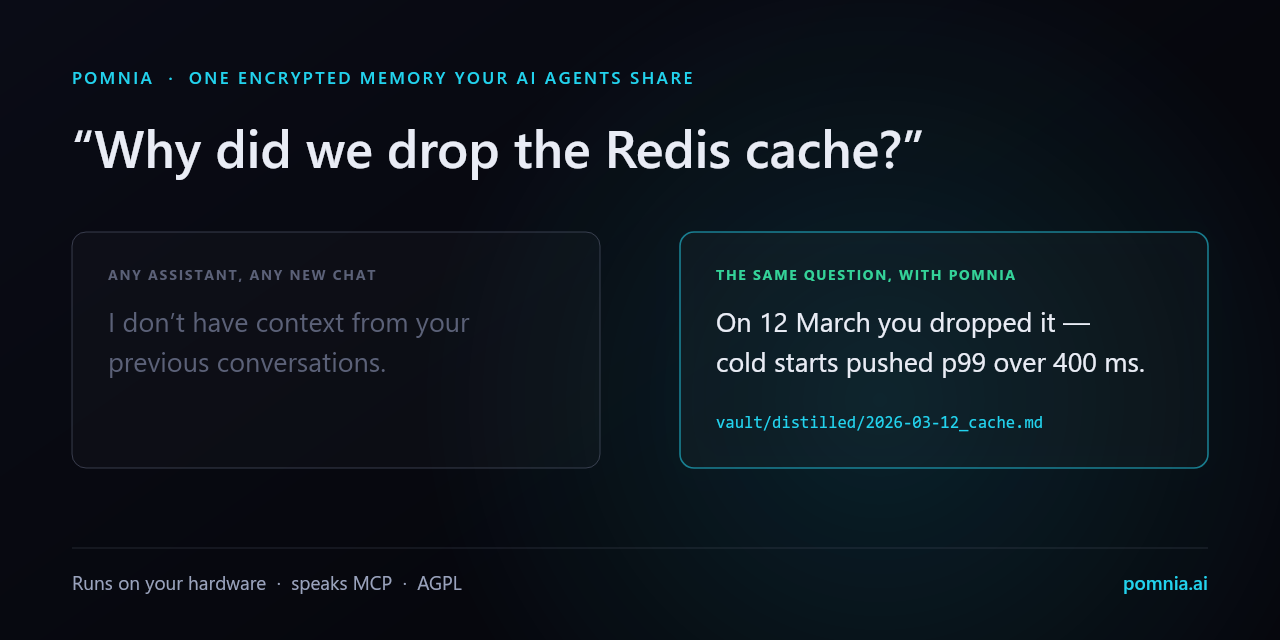
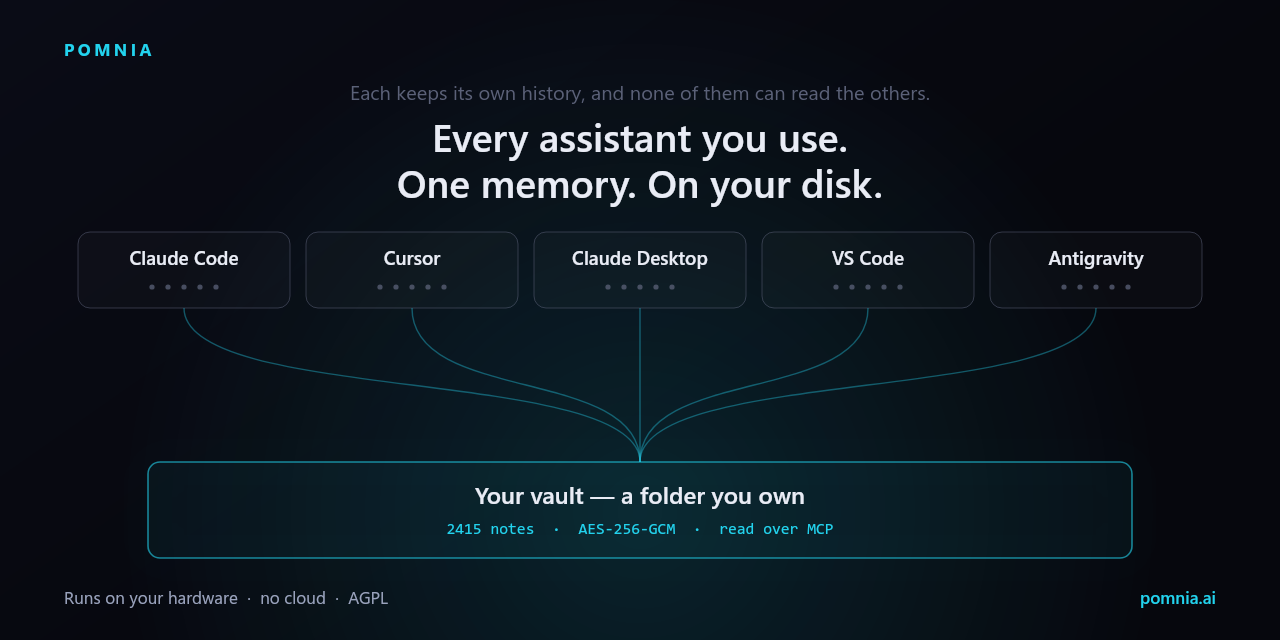
The first card asked people to solve a puzzle. This one asks them to recognise something.
The author could not read his own social card, which is the only test that
matters — nobody arriving from a link will bring more context than the person
who built the thing.

Looking at it again, three claims I made about it were wrong. It said "zero
jargon" while resting on p99 and cold starts. It was supposed to read in three
seconds, but it needs both panels read and then compared, which is a task and
not a glance. And it showed no product at all: two rectangles of text that could
advertise any memory tool ever made, illustrated with a scenario about a Redis
cache that never happened.

The replacement asks for recognition instead of comprehension. Five names off
the reader's own taskbar — Claude Code, Cursor, Claude Desktop, VS Code,
Antigravity, the clients Connect actually writes snippets for — each drawn
holding a few scraps of memory with nothing joining them to each other. Then
curves from all five converging into one vault. The structure carries the
argument; the words only have to name it.

Reading order is problem, promise, your tools, the thing. The first attempt at
this layout put the headline between the tool row and the vault, where the
converging curves ran straight through it and made the one line that has to land
the hardest thing on the card to read. The curve zone is empty now.

The old variant is kept behind `--variant ask` rather than deleted. It is the
better argument for anyone who already understands the problem, and it may earn
[…]

diff --git a/README.md b/README.md
@@ -1,6 +1,6 @@
 # Pomnia
 
-<img src="docs/assets/social-card-en.png" alt="The same question asked twice: an assistant with no memory says it has no context from previous conversations; the same question with Pomnia answers with the decision, its date and the file it came from." width="100%">
+<img src="docs/assets/social-card-en.png" alt="Claude Code, Cursor, Claude Desktop, VS Code and Antigravity in a row, each holding its own separate scraps of history with nothing linking them; curves run down from all five into one vault below — a folder you own, holding the notes all of them read." width="100%">
 
 **One encrypted memory your AI agents share** — conversations from every assistant, distilled on your own hardware, recalled over MCP. Local-first: nothing depends on a vendor's cloud.
 
